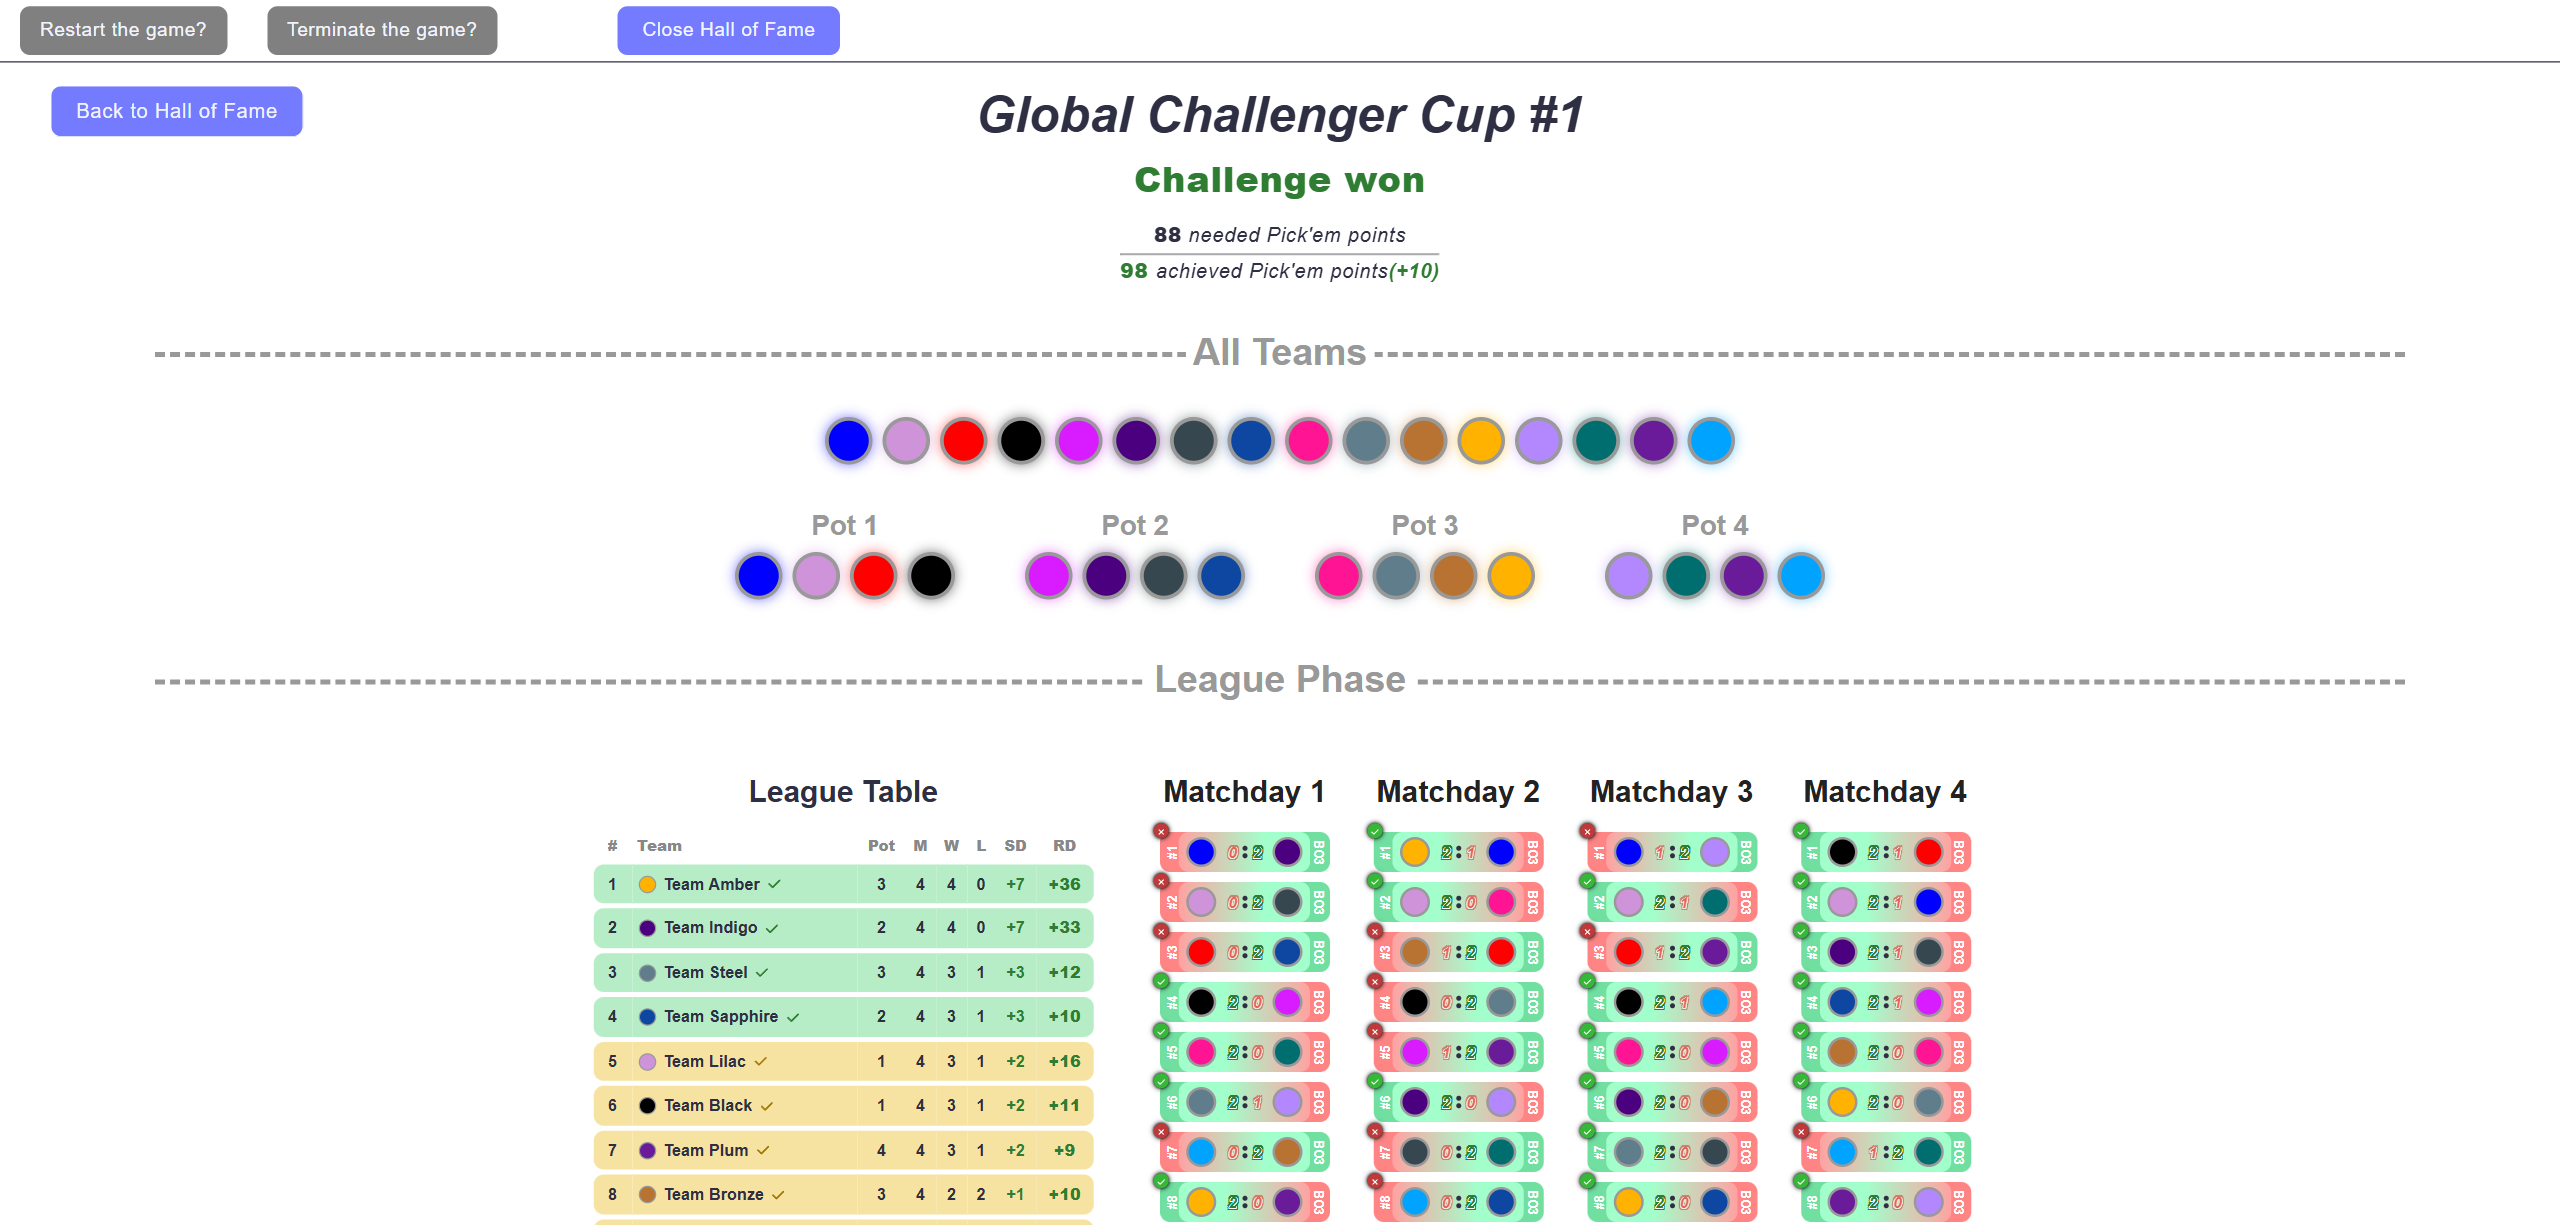
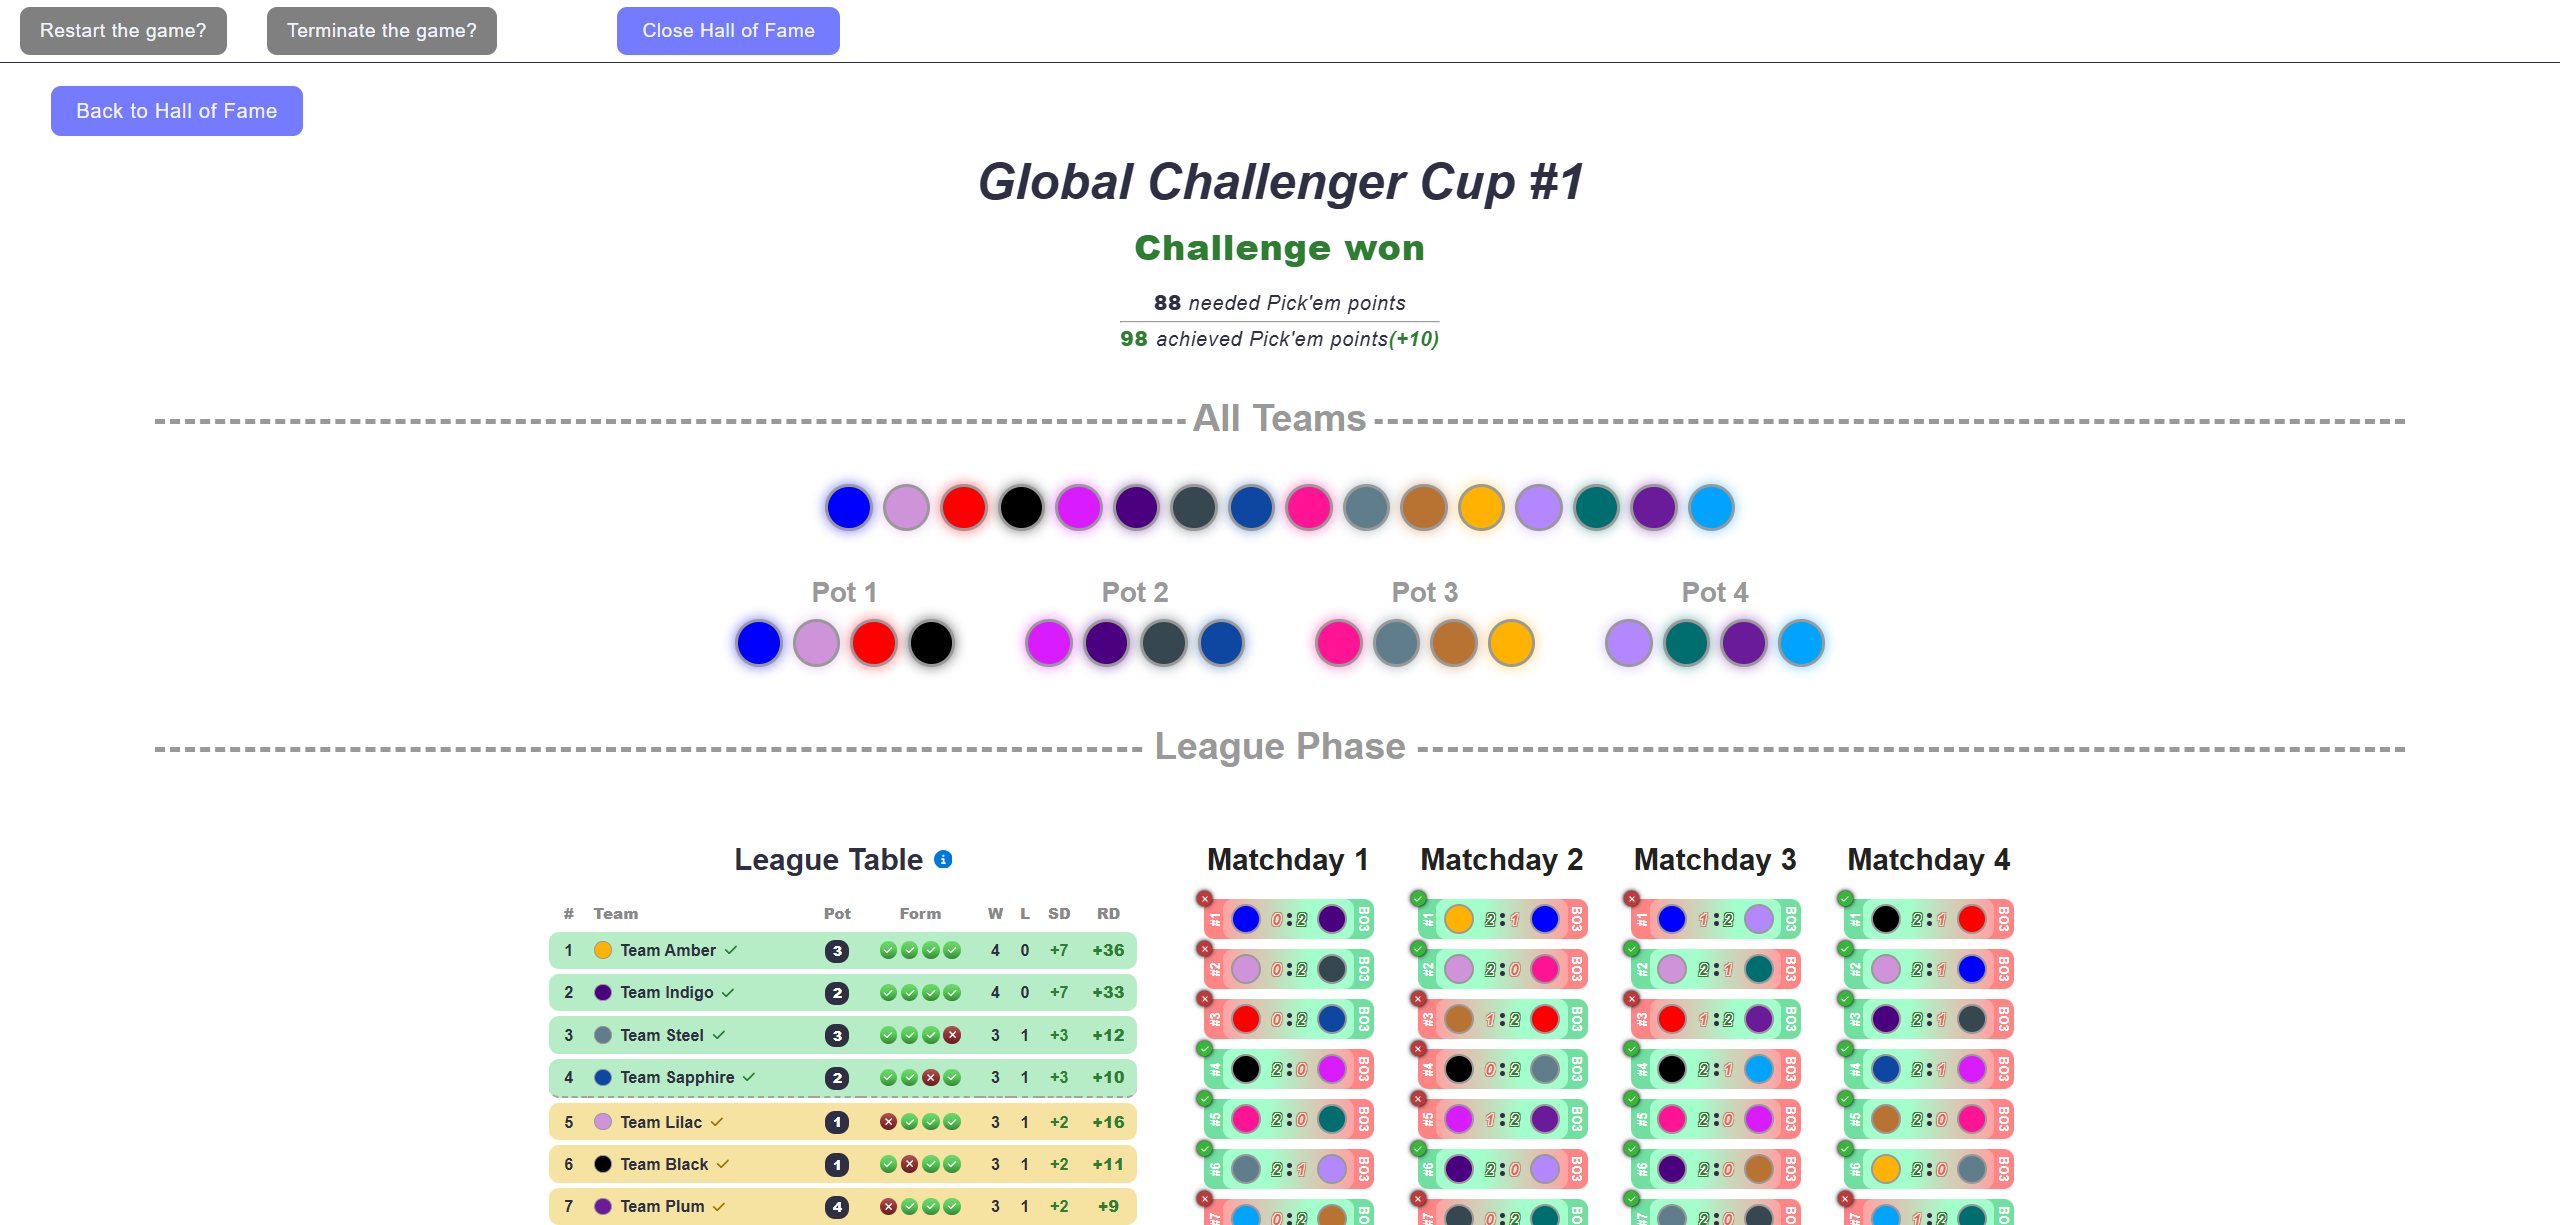
Make info pop-up for the table and update the images for Info Page!

diff --git a/src/pages/SpecialModePage/components/GccTableInfo.jsx b/src/pages/SpecialModePage/components/GccTableInfo.jsx
@@ -1,0 +1,111 @@
+import { useState } from "react";
+import css from "../SpecialModePage.module.css";
+// eslint-disable-next-line no-unused-vars
+import { motion, AnimatePresence } from "framer-motion";
+import { FaCheck, FaXmark, FaCircleInfo } from "react-icons/fa6";
+import { lightenHex, darkenHex } from "../logic/colors.js";
+
+const formGradient = (color) => `linear-gradient(180deg, ${lightenHex(color, 0.18)} 0%, ${color} 45%, ${darkenHex(color, 0.35)} 100%)`;
+
+const SampleRow = ({ rowClass = "", children }) => (
+    <table className={`${css.cst_table} ${css.gcc_info_sample}`}>
+        <tbody>
+            <tr className={rowClass}>
+                <td>{children}</td>
+            </tr>
+        </tbody>
+    </table>
+);
+
+const Entry = ({ sample, children }) => (
+    <>
+        <div className={css.gcc_info_sample_cell}>{sample}</div>
+        <div className={css.gcc_info_text}>{children}</div>
+    </>
+);
+
+export const GccTableInfo = () => {
+    const [open, setOpen] = useState(false);
+
+    return (
+        <span
+            className={css.gcc_info}
+            onMouseEnter={() => setOpen(true)}
+            onMouseLeave={() => setOpen(false)}
+        >
+            <FaCircleInfo size={15} style={{ color: "Highlight" }} />
+            <AnimatePresence>
+                {open && (
+                    <motion.div
+                        className={css.gcc_info_box}
+                        initial={{ opacity: 0, y: -4 }}
+                        animate={{ opacity: 1, y: 0 }}
+                        exit={{ opacity: 0, y: -4 }}
+                        transition={{ duration: 0.15 }}
+                    >
+                        <span className={css.gcc_info_title}>Places right now</span>
+                        <div className={css.gcc_info_grid}>
+                            <Entry sample={<SampleRow rowClass={css.gcc_row_qf}>1-4</SampleRow>}>
+                                In the Quarterfinal places at the moment
+                            </Entry>
+                            <Entry sample={<SampleRow rowClass={css.gcc_row_po}>5-12</SampleRow>}>
+                                In the Knockout Play-off places at the moment
+                            </Entry>
+                            <Entry sample={<SampleRow>13-16</SampleRow>}>
+                                Out of the top 12 at the moment, but still alive
+                            </Entry>
+                        </div>
+
+                        <span className={css.gcc_info_title}>Guaranteed</span>
+                        <div className={css.gcc_info_grid}>
+                            <Entry sample={<SampleRow rowClass={css.gcc_row_qf_done}><FaCheck size={11} color="#2e7d32" /></SampleRow>}>
+                                Quarterfinals clinched: the team finishes in the top 4, whatever happens
+                            </Entry>
+                            <Entry sample={<SampleRow rowClass={css.gcc_row_po_done}><FaCheck size={11} color="#a07800" /></SampleRow>}>
+                                Knockout Play-offs clinched: places 5-12 for sure, the top 4 can&apos;t be reached anymore
+                            </Entry>
+                            <Entry sample={<SampleRow rowClass={css.gcc_row_qf}><FaCheck size={11} color="#a07800" style={{ opacity: 0.5 }} /></SampleRow>}>
+                                At least the Knockout Play-offs are safe, the Quarterfinals are still possible
+                            </Entry>
+                            <Entry sample={<SampleRow rowClass={css.cst_row_eliminated}><FaXmark size={12} color="#be3939" /></SampleRow>}>
+                                Eliminated: the top 12 can&apos;t be reached anymore
+                            </Entry>
+                        </div>
+                        <span className={css.gcc_info_note}>
+                            Only the wins are known in advance, so a tie in wins always counts against the team.
+                            A team is marked only when it&apos;s certain.
+                        </span>
+
+                        <span className={css.gcc_info_title}>Everything else</span>
+                        <div className={css.gcc_info_grid}>
+                            <Entry sample={<SampleRow rowClass={css.gcc_row_playing}>&nbsp;</SampleRow>}>
+                                The two teams of the current match
+                            </Entry>
+                            <Entry sample={<span className={css.gcc_info_cut} />}>
+                                The cut after 4th place (Quarterfinals) and after 12th place (Knockout Play-offs)
+                            </Entry>
+                            <Entry
+                                sample={
+                                    <span className={css.gcc_form}>
+                                        <span className={css.gcc_form_slot} style={{ backgroundImage: formGradient("#54CC54") }}>
+                                            <FaCheck size={8} color="#fff" />
+                                        </span>
+                                        <span className={css.gcc_form_slot} style={{ backgroundImage: formGradient("#983333") }}>
+                                            <FaXmark size={9} color="#fff" />
+                                        </span>
+                                        <span className={`${css.gcc_form_slot} ${css.gcc_form_next}`} style={{ background: "#d81b60" }} />
+                                    </span>
+                                }
+                            >
+                                Form, one circle per Matchday: won, lost, and the coloured dot of the opponent still to play
+                            </Entry>
+                            <Entry sample={<span className={css.gcc_pot}>2</span>}>
+                                The Pot of the team
+                            </Entry>
+                        </div>
+                    </motion.div>
+                )}
+            </AnimatePresence>
+        </span>
+    );
+};

diff --git a/src/pages/SpecialModePage/SpecialModePage.module.css b/src/pages/SpecialModePage/SpecialModePage.module.css
@@ -4192,3 +4192,92 @@
 .gcc_row_playing td:last-child {
     box-shadow: inset -2px 2px 0 #ffd700, inset 0 -2px 0 #ffd700;
 }
+
+.gcc_table_title {
+    display: flex;
+    align-items: center;
+    gap: 8px;
+    transition: none;
+}
+
+.gcc_info {
+    position: relative;
+    display: inline-flex;
+    cursor: default;
+    transition: none;
+}
+
+.gcc_info_box {
+    position: absolute;
+    top: calc(100% + 8px);
+    left: 50%;
+    transform: translateX(-50%);
+    z-index: 9999;
+    width: 430px;
+    padding: 10px 14px 12px;
+    border-radius: 6px;
+    background: #fff;
+    color: #2e2f42;
+    box-shadow: 0 2px 10px rgba(0, 0, 0, 0.2);
+    font-size: 12px;
+    text-align: left;
+    transition: none;
+}
+
+.gcc_info_title {
+    display: block;
+    margin: 8px 0 4px;
+    font-size: 12px;
+    font-weight: 800;
+    color: #888;
+}
+
+.gcc_info_title:first-child {
+    margin-top: 0;
+}
+
+.gcc_info_grid {
+    display: grid;
+    grid-template-columns: 76px 1fr;
+    gap: 4px 10px;
+    align-items: center;
+}
+
+.gcc_info_sample_cell {
+    display: flex;
+    justify-content: center;
+}
+
+.gcc_info_sample {
+    width: 76px;
+    border-spacing: 0;
+}
+
+.gcc_info_sample td {
+    padding: 3px 5px;
+    font-size: 12px;
+    border-radius: 8px;
+}
+
+.gcc_info_text {
+    font-weight: 600;
+    line-height: 1.35;
+}
+
+.gcc_info_note {
+    display: block;
+    margin-top: 6px;
+    font-size: 11px;
+    font-style: italic;
+    color: #777;
+}
+
+.gcc_info_cut {
+    display: block;
+    width: 64px;
+    border-bottom: 2px dashed #a3a3a3;
+}
+
+.gcc_info_sample .gcc_row_playing td {
+    box-shadow: inset 0 0 0 2px #ffd700;
+}

diff --git a/src/pages/SpecialModePage/renderers/tournamentRenderers.jsx b/src/pages/SpecialModePage/renderers/tournamentRenderers.jsx
@@ -23,6 +23,7 @@ import {
     getGccClinchStatus,
 } from "../logic/gcc.js";
 import { lightenHex, darkenHex } from "../logic/colors.js";
+import { GccTableInfo } from "../components/GccTableInfo.jsx";
 import { isPemPlayoffsKind, pemGroupSlotSource, canOpenPemGroupMatch, getBestOfForPemGroup, isSinglePemGroupStage, findCurrentPemGroupMatch, findNextPemGroupMatch } from "../logic/pemSeries.jsx";
 import { pemStage1SlotSource, canOpenPemStage1Match, getBestOfForPemStage1, isSinglePemStage1Stage, findCurrentPemStage1Match, findNextPemStage1Match } from "../logic/pemStage1.jsx";
 import { canOpenPlayoffsMatch, getBestOfForPlayoffs } from "../logic/playoffs.js";
@@ -2139,7 +2140,10 @@ export function createTournamentRenderers({
         return (
             <div className={css.gcc_league}>
                 <div className={css.gcc_table}>
-                    <h3 className={css.cst_group_title}>League Table</h3>
+                    <div className={css.gcc_table_title}>
+                        <h3 className={css.cst_group_title}>League Table</h3>
+                        <GccTableInfo />
+                    </div>
                     {renderGccStandingsTable(league, playingIds)}
                     <div className={css.gcc_zone_legend}>
                         <span><i className={css.gcc_row_qf_done} /> Quarterfinals</span>
